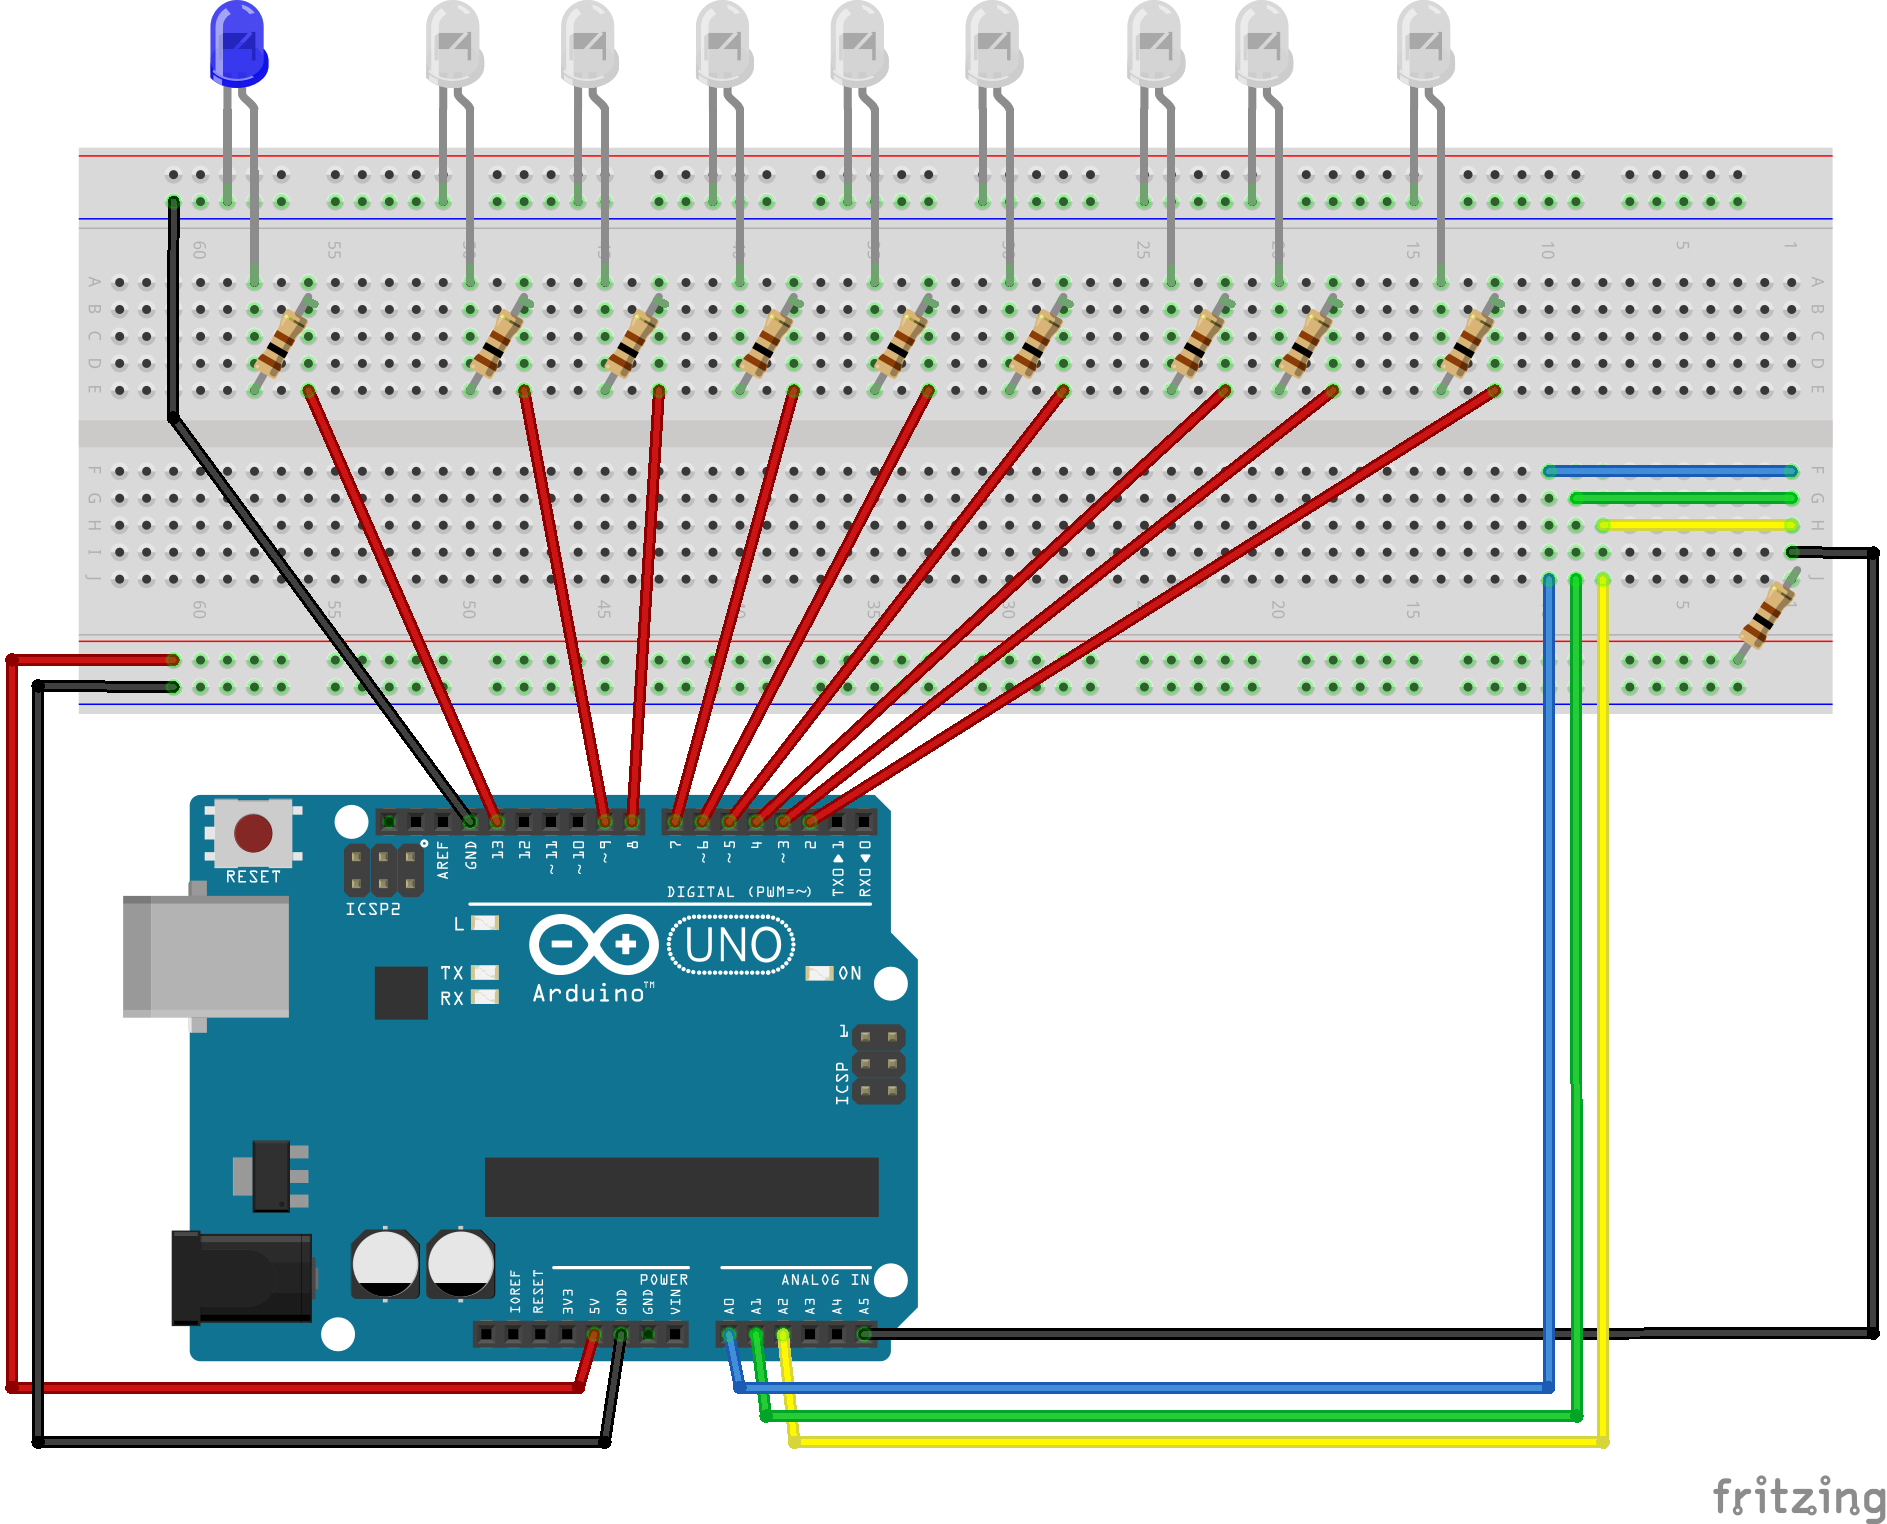
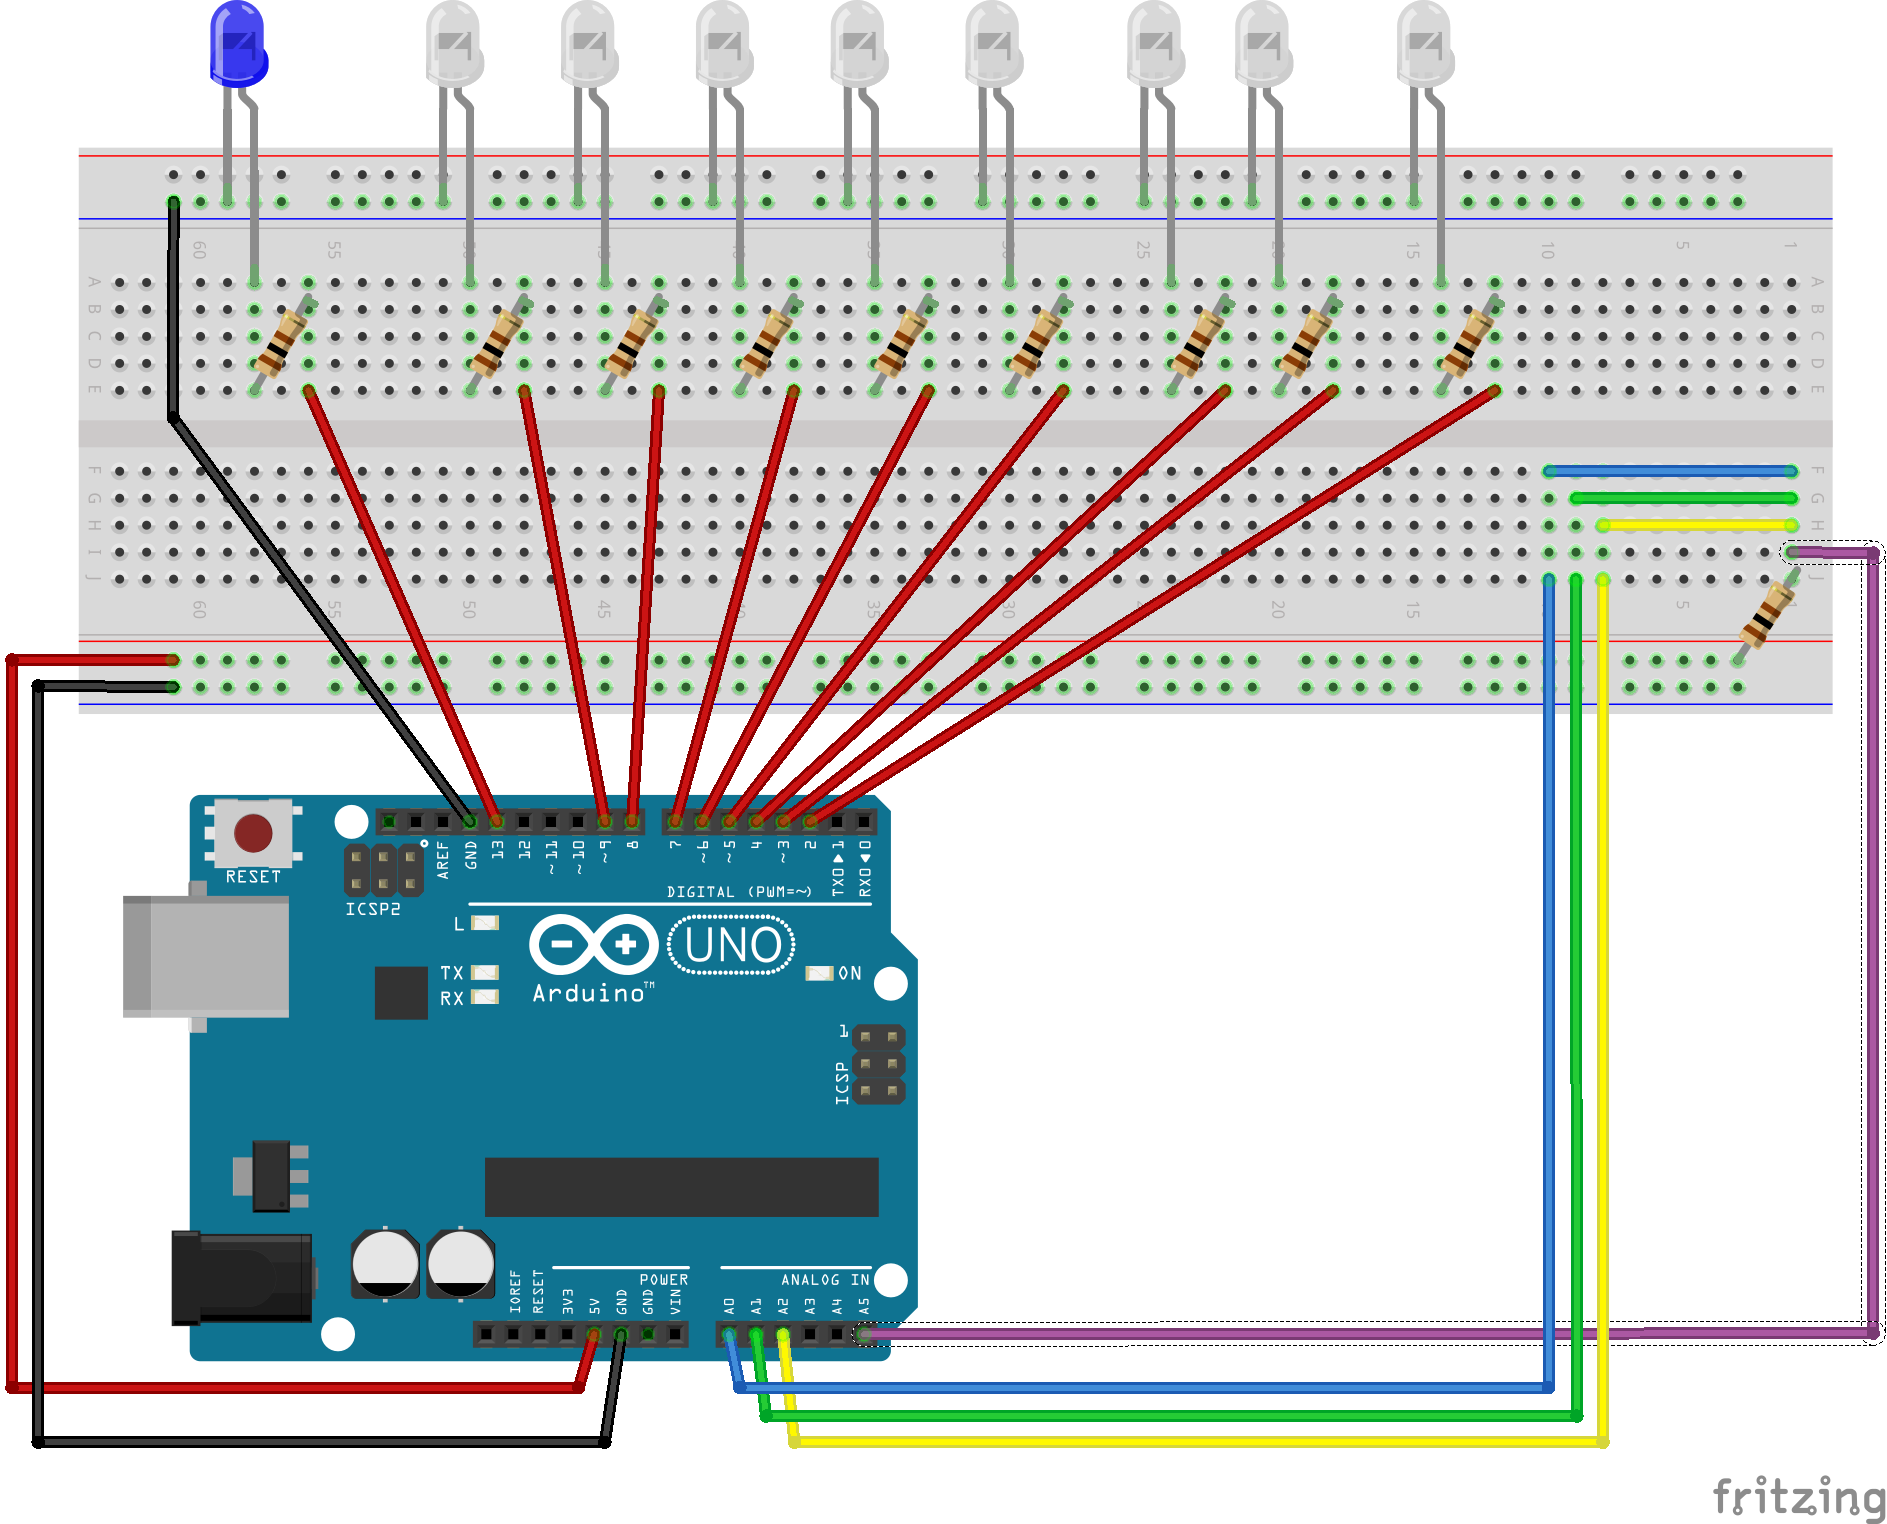
update readme

Changed region(s): [[0.461, 0.3392, 1.0, 0.8944]]

diff --git a/README.md b/README.md
@@ -7,3 +7,26 @@ To build using `make`, install the
 [arduino-mk](https://github.com/sudar/Arduino-Makefile) package. I use Ubuntu,
 so the import path is relative where files live in the `apt` installation.
 Alternatively, one can import it into the Arduino GUI if they desire.
+
+## Hardware
+
+Building the menorah is fairly straightforward, as is shown by the diagram
+below. All resistors in the diagram are 100 Ohm. The blue LED is the Shamash.
+Since the candles of the menorah are typically placed right to left and lit
+left to right, the circuit in the diagram below is oriented so the Shamash is
+on the right-hand side of the menorah. Then, when the LEDs light up, they light
+up from left to right.
+
+## Configuring
+
+The amount of LEDs can be configured via the blue, green, and yellow wires
+connected to `A0`, `A1`, `A2`. The analog inputs are read digitally as GPIO
+inputs where the values make a 3-bit number where `A0` is the least significant
+bit. To set a bit low, connect its corresponding wire to ground. The number to
+set is one less than the amount of LEDs to be lit. To change the number of
+lights, first set the enable pin (purple on the diagram) to ground, set the
+desired number of lights, then set the enable pin to high. The lights will
+light up with a small delay between LEDs, then remain on until the enable pin
+goes low again or the Arduino is powered off.
+
+![Arduino menorah circuit setup](https://github.com/domagalski/arduino-menorah/blob/main/menorah.png)
